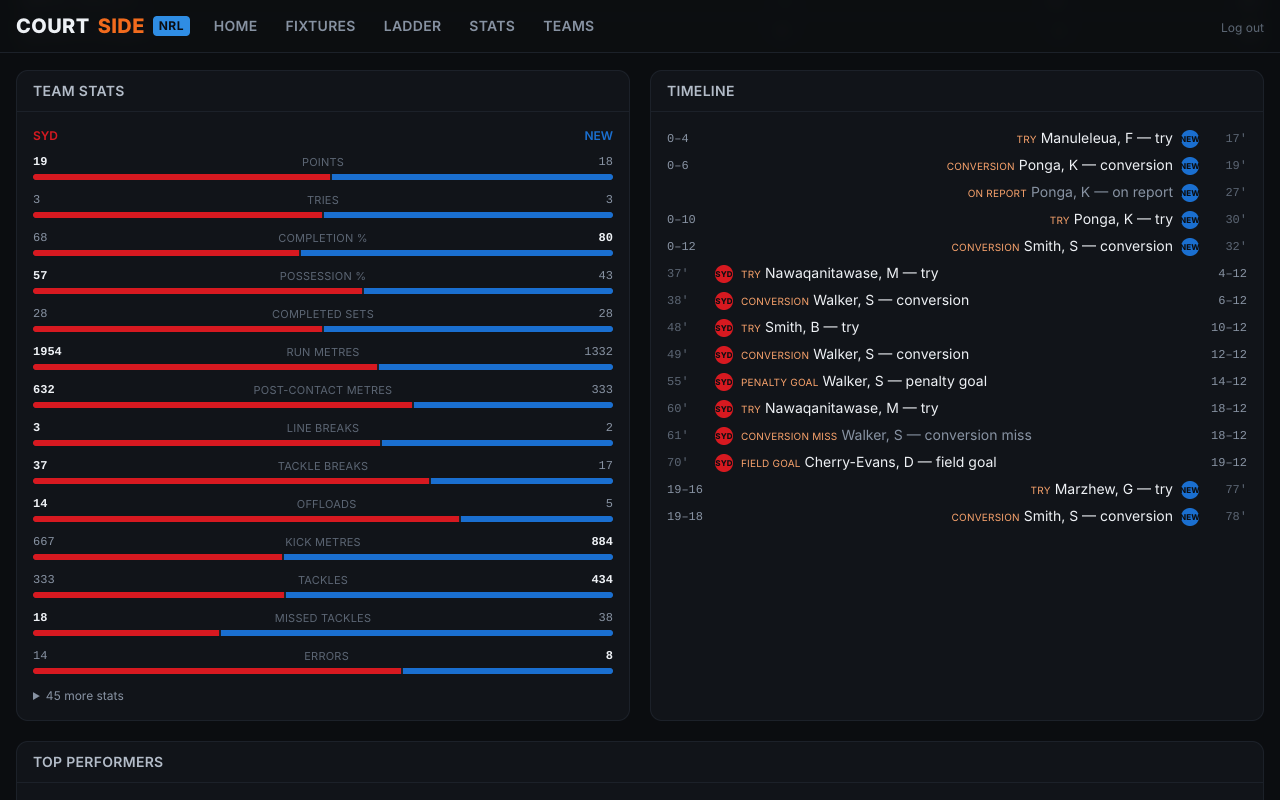
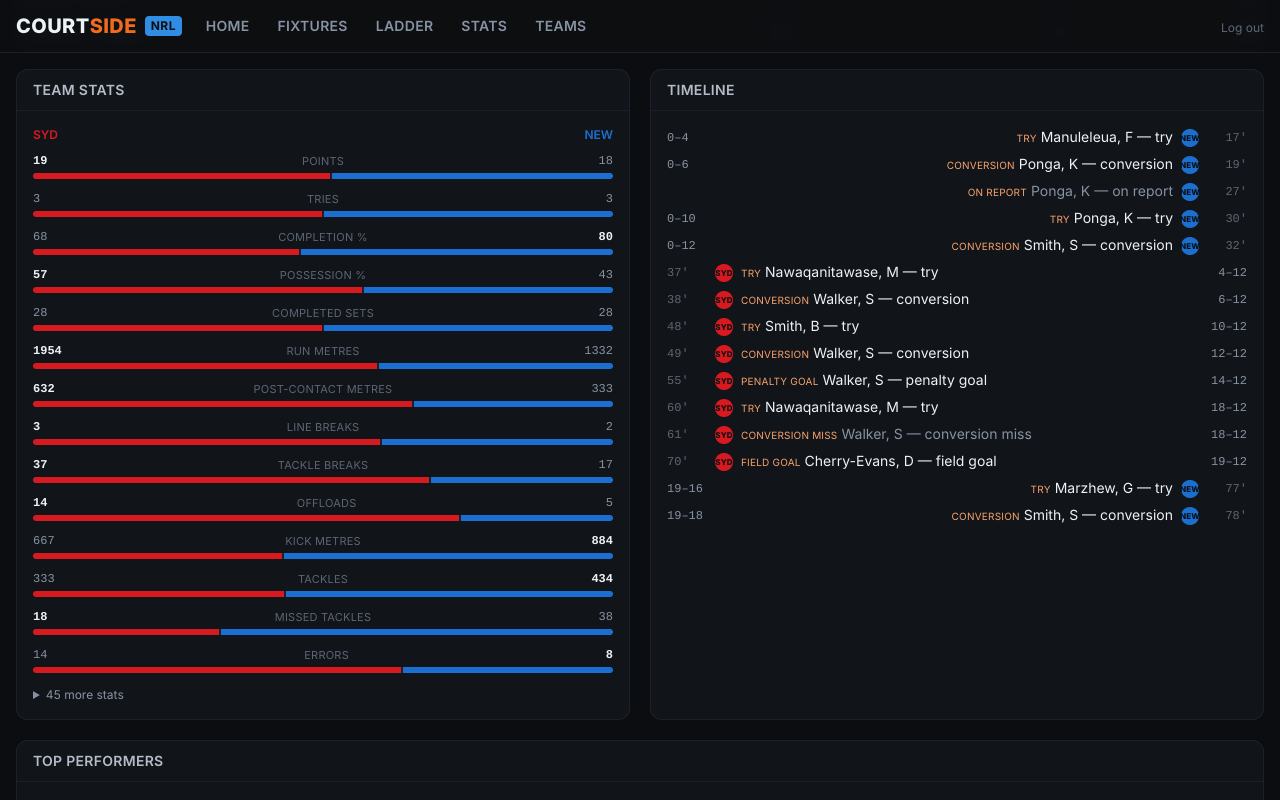
Refresh landing screenshots, smaller blog title on phones
Claude-Session: https://claude.ai/code/session_01UkZaBESEUMmgPoafkmSiLU

diff --git a/src/app/(public)/blog/[slug]/page.tsx b/src/app/(public)/blog/[slug]/page.tsx
@@ -56,7 +56,7 @@ export default async function PostPage({ params }: { params: Promise<{ slug: str
       </nav>
       <div className="mt-4 grid gap-10 lg:grid-cols-[1fr_260px]">
         <article>
-          <h1 className="display text-3xl font-extrabold leading-tight sm:text-4xl">{p.title}</h1>
+          <h1 className="display text-2xl font-extrabold leading-tight sm:text-4xl">{p.title}</h1>
           <p className="mt-3 text-lg text-ink-300">{p.description}</p>
           <p className="mt-3 text-sm text-ink-500">
             {fmtDate(p.date, { day: "numeric", month: "long", year: "numeric" })} · {readingMinutes(p)} min read · {site.name} team
